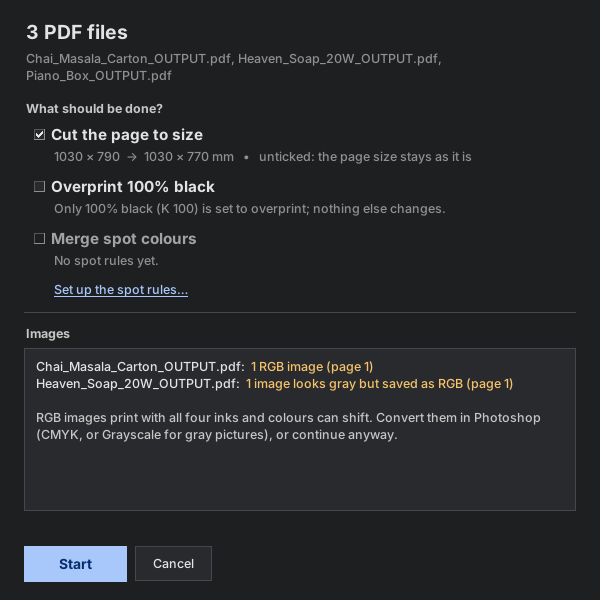
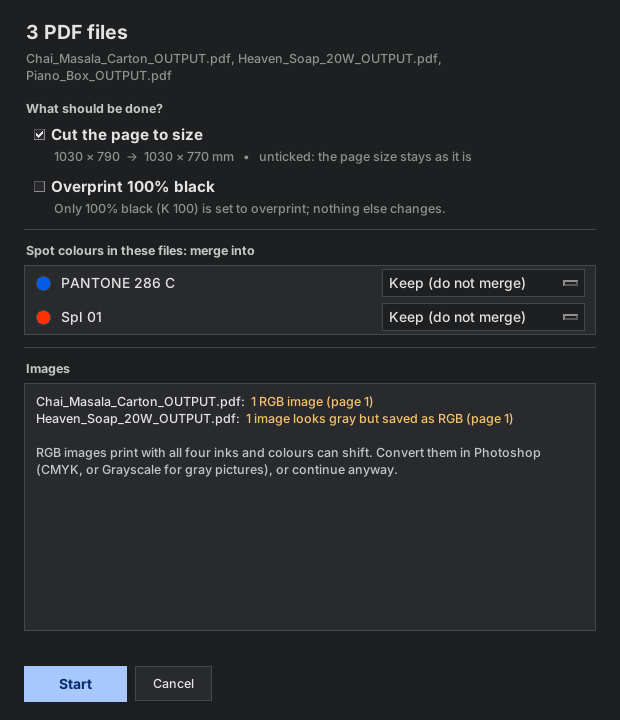
PDF Cutter: a plate for each spot colour

Changed region(s): [[0.03, 0.03, 0.96, 0.66], [0.06, 0.69, 0.9, 0.75], [0.03, 0.9, 0.33, 0.99]]

diff --git a/README.md b/README.md
@@ -20,10 +20,10 @@ Save hours of repetitive work on every job: plate-ready PDFs, printer marks, ups
 
 <img src="docs/screenshots/pdf-cutter.png" width="430" alt="PDF Cutter"> <img src="docs/screenshots/pdf-cutter-start.png" width="330" alt="PDF Cutter asks what to do">
 
-Drop PDF files or a whole folder. PDF Cutter asks what to do: **cut the page**, **overprint 100% black**, **merge spot colours**, or any mix of them, and warns about RGB images before it starts:
+Drop PDF files or a whole folder. PDF Cutter asks what to do: **cut the page**, **overprint 100% black**, and for **every spot colour found in the files** which plate it goes into (Black, Cyan, Magenta, Yellow, or keep it). It also warns about RGB images before it starts:
 
 - Cuts the page to plate size (for example 1030 × 790 → 1030 × 770 mm): bottom-left stays fixed, nothing is stretched. Or keeps the page size and only does the overprint / spot merge.
-- Merges spot colours (such as "Spl 01") into the Black or a CMYK plate, and sets 100% black to overprint.
+- Merges spot colours (such as "Spl 01") into the plate you choose for each one, and sets 100% black to overprint. Your last choice for each spot is remembered.
 - **Every file is verified** before it is saved: an object-by-object integrity check and a visual comparison. If anything looks wrong, nothing is written. Your original file is never changed.
 - **RGB image warning:** every image is checked. Real grayscale images are never reported; a picture that looks gray but is saved as RGB is pointed out separately, because it would print with all four inks.
 - Preflight report: fonts, image resolution, RGB images, thin lines, total ink, spot colours and artwork in the cut-away area.
